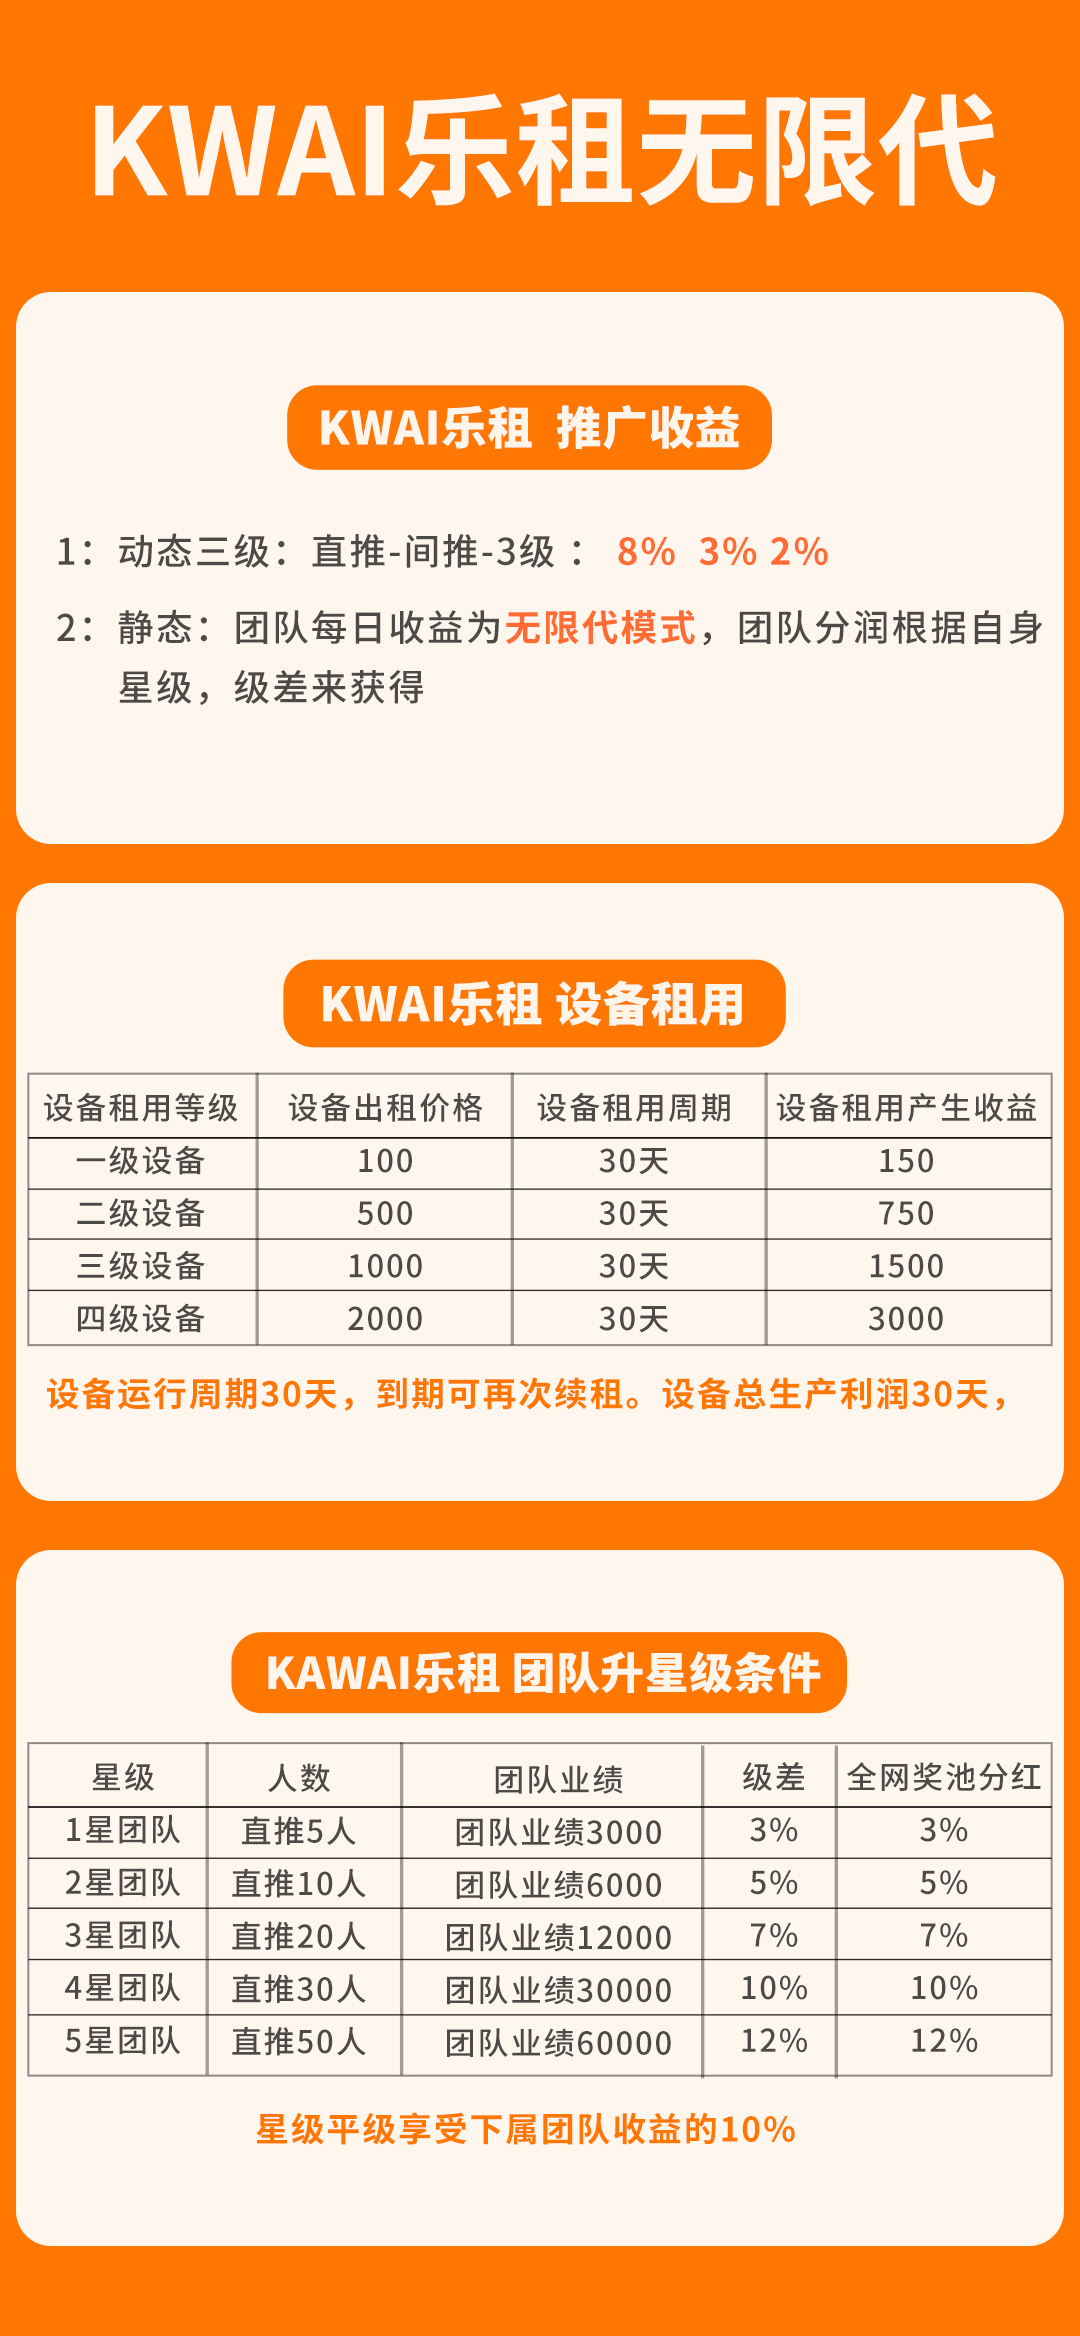
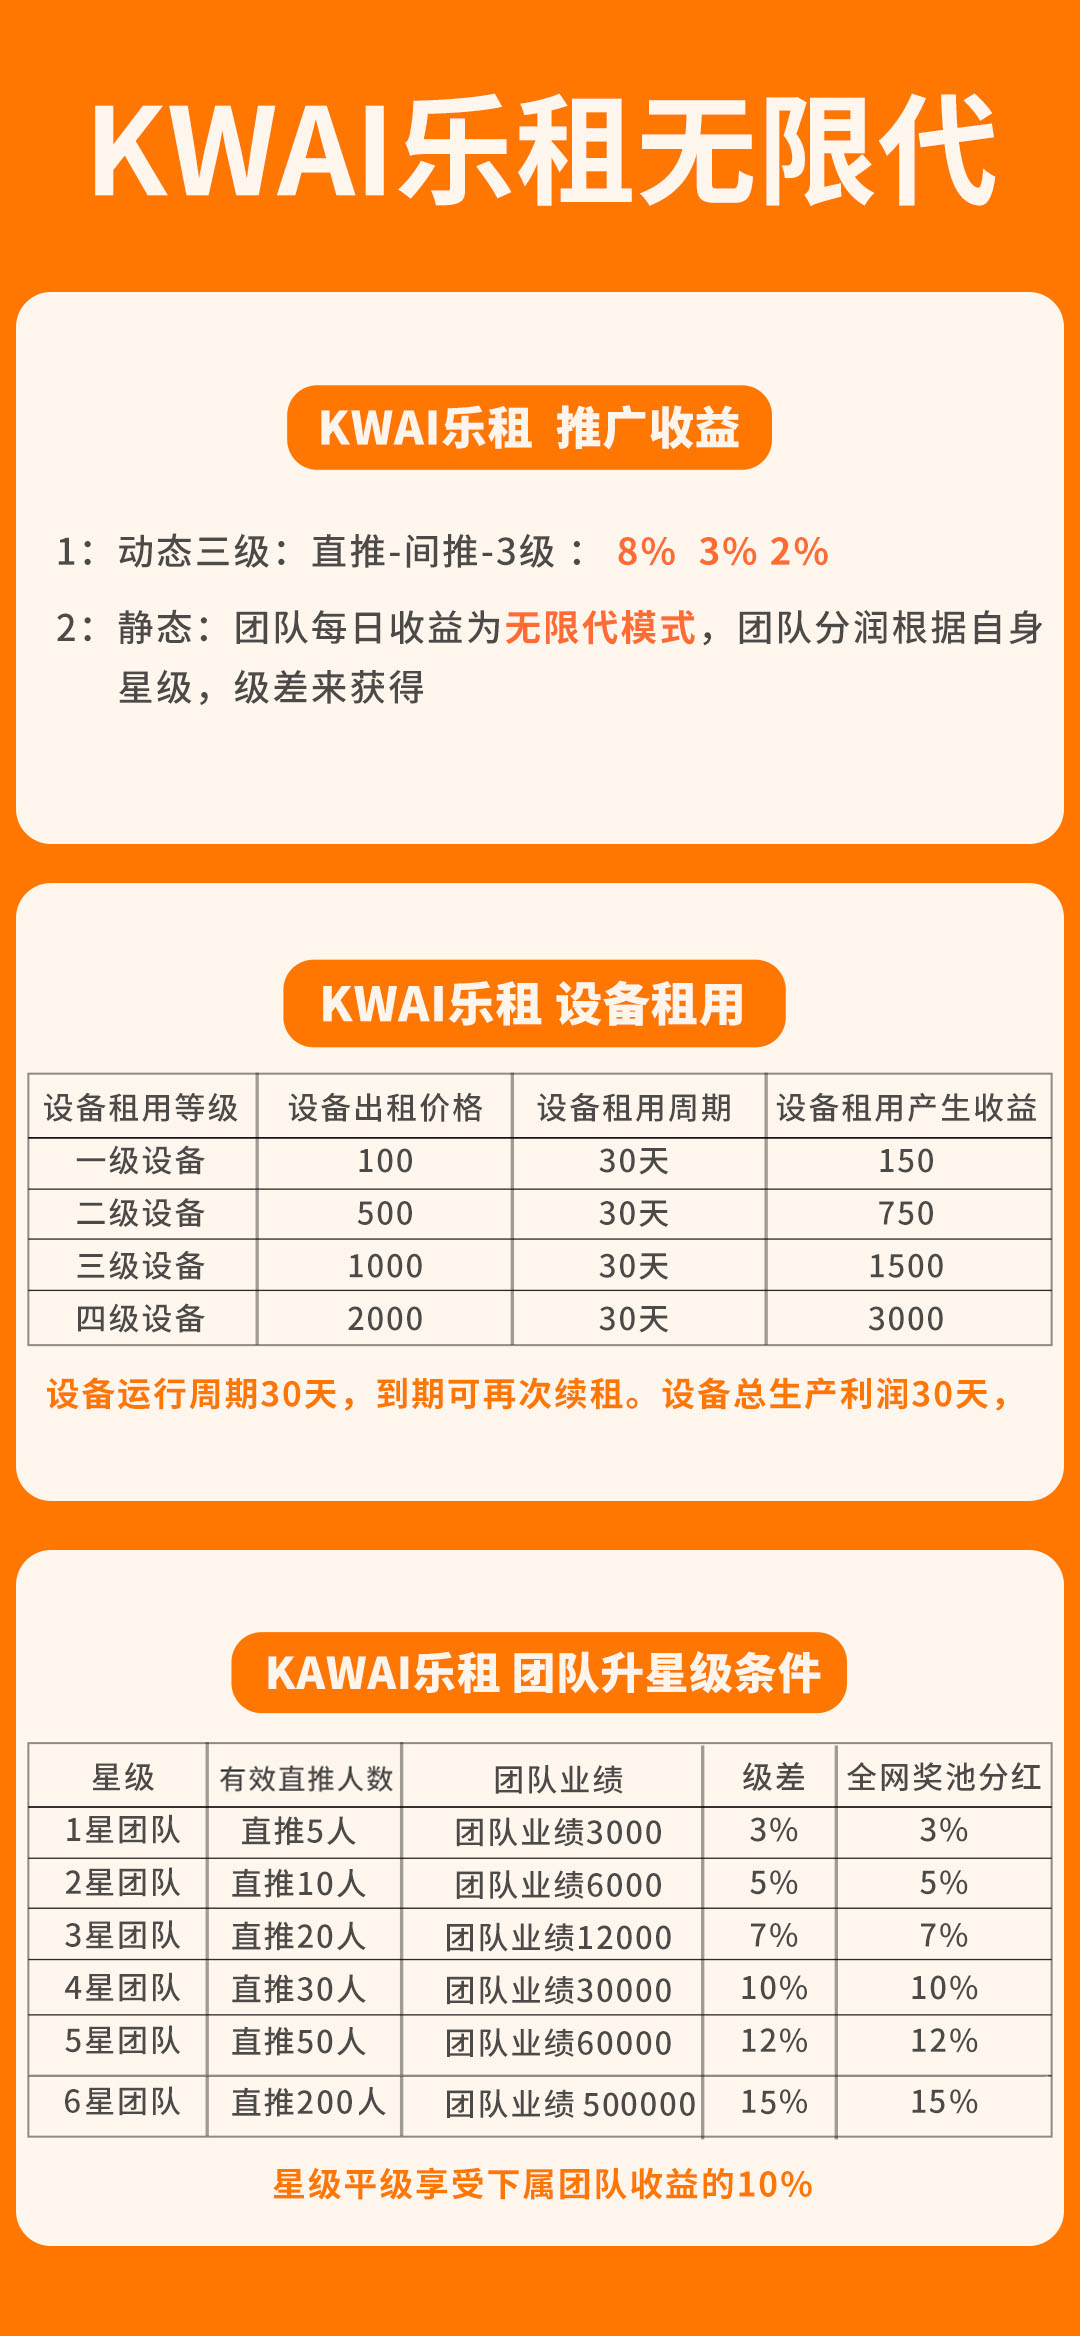
feat: 星级图片文字调整 提现必须分享

diff --git a/src/pages/home/index.vue b/src/pages/home/index.vue
@@ -3,8 +3,8 @@
     <!--<EarnedCash></EarnedCash>-->
     <Loading v-if="loading"></Loading>
     <div class="container">
-      <div class="top-wrap">
-        <img src="./images/banner2.jpg" alt="" />
+      <div class="top-wrap" style="padding-top: 40px; background-color: #feab03">
+        <img src="./images/banner3.jpg" alt="" />
         <!--<div class="title">-->
         <!--  <div class="title-l">Kwai乐租</div>-->
         <!--  <div class="title-r"></div>-->
@@ -72,14 +72,16 @@
       </div>
 
       <div v-show="activeTab === 0" class="app-list">
-        <div class="app-list-item" v-for="item of appList">
+        <div class="app-list-item" v-for="(item, index) of appList">
           <div class="l">
             <div class="logo">
               <img :src="convertImgUrl(item.logo)" alt="" />
             </div>
             <div class="info">
               <div class="name">{{ item.name }}</div>
-              <div class="desc">{{ item.desc }}</div>
+              <div class="desc" :style="{ color: index === 0 ? '#9d9d9d' : 'red' }">
+                {{ item.desc }}
+              </div>
             </div>
           </div>
           <div class="r">
@@ -145,44 +147,44 @@ const appList = ref([
       router.push('/article?id=5')
     }
   },
+  // {
+  //   name: '团队长群',
+  //   desc: '团队长专线群!',
+  //   logo: 'qq',
+  //   btnLabel: '团队长1群',
+  //   btnCb() {
+  //     window.location.href = decodeURIComponent('https://qm.qq.com/q/NV59IlgLku')
+  //     // const isIos = /iPhone|iPad|iPod/i.test(navigator.userAgent)
+  //     // if (isIos) {
+  //     //   window.location.href = decodeURIComponent('https://qm.qq.com/q/XtPKFbzikG')
+  //     // } else {
+  //     //   window.location.href = decodeURIComponent('http://kfa.vbxv.com.cn/download/index.html')
+  //     // }
+  //   }
+  // },
   {
     name: '团队长群',
-    desc: '团队长专线群!',
+    desc: '如遇老群被封禁，请移步新群！',
     logo: 'qq',
-    btnLabel: '团队长1群',
-    btnCb() {
-      window.location.href = decodeURIComponent('https://qm.qq.com/q/NV59IlgLku')
-      // const isIos = /iPhone|iPad|iPod/i.test(navigator.userAgent)
-      // if (isIos) {
-      //   window.location.href = decodeURIComponent('https://qm.qq.com/q/XtPKFbzikG')
-      // } else {
-      //   window.location.href = decodeURIComponent('http://kfa.vbxv.com.cn/download/index.html')
-      // }
-    }
-  },
-  {
-    name: '团队长群',
-    desc: '团队长专线群!',
-    logo: 'qq',
-    btnLabel: '团队长2群',
+    btnLabel: '官方2群',
     btnCb() {
       window.location.href = decodeURIComponent('https://qm.qq.com/q/qMgoUveguY')
     }
   },
   {
     name: '团队长群',
-    desc: '团队长专线群!',
+    desc: '如遇老群被封禁，请移步新群！',
     logo: 'qq',
-    btnLabel: '团队长3群',
+    btnLabel: '官方3群',
     btnCb() {
       window.location.href = decodeURIComponent('https://qm.qq.com/q/lDjgCQB6Du')
     }
   },
   {
     name: '团队长群',
-    desc: '团队长专线群!',
+    desc: '如遇老群被封禁，请移步新群！',
     logo: 'qq',
-    btnLabel: '团队长4群',
+    btnLabel: '官方4群',
     btnCb() {
       window.location.href = decodeURIComponent('https://qm.qq.com/q/Ec4XGVlDmE')
     }

diff --git a/src/pages/me/dep.vue b/src/pages/me/dep.vue
@@ -298,7 +298,7 @@ const card = async () => {
   setPay()
 }
 async function goPay() {
-  loadInteraction()
+  // loadInteraction()
 
   // if (!sessionStorage.seeVideoWithdrawal) {
   //   showDialog({
@@ -311,6 +311,17 @@ async function goPay() {
   //   })
   //   return
   // }
+  if (!sessionStorage.isShared) {
+    showDialog({
+      message: '请先分享微信朋友圈，再发起提现!'
+    }).then(() => {
+      // on close
+
+      sessionStorage.isShared = true
+      window.shareFriend()
+    })
+    return
+  }
   tixianLoading.value = true
   const { code, msg } = await axios.post('/api/wallet-fetch/create', {
     money: money.value,
@@ -319,6 +330,7 @@ async function goPay() {
 
   tixianLoading.value = false
   sessionStorage.seeVideoWithdrawal = ''
+  sessionStorage.isShared = ''
   if (code !== 200) return _notice(msg)
   _notice('申请已提交！')
 }
